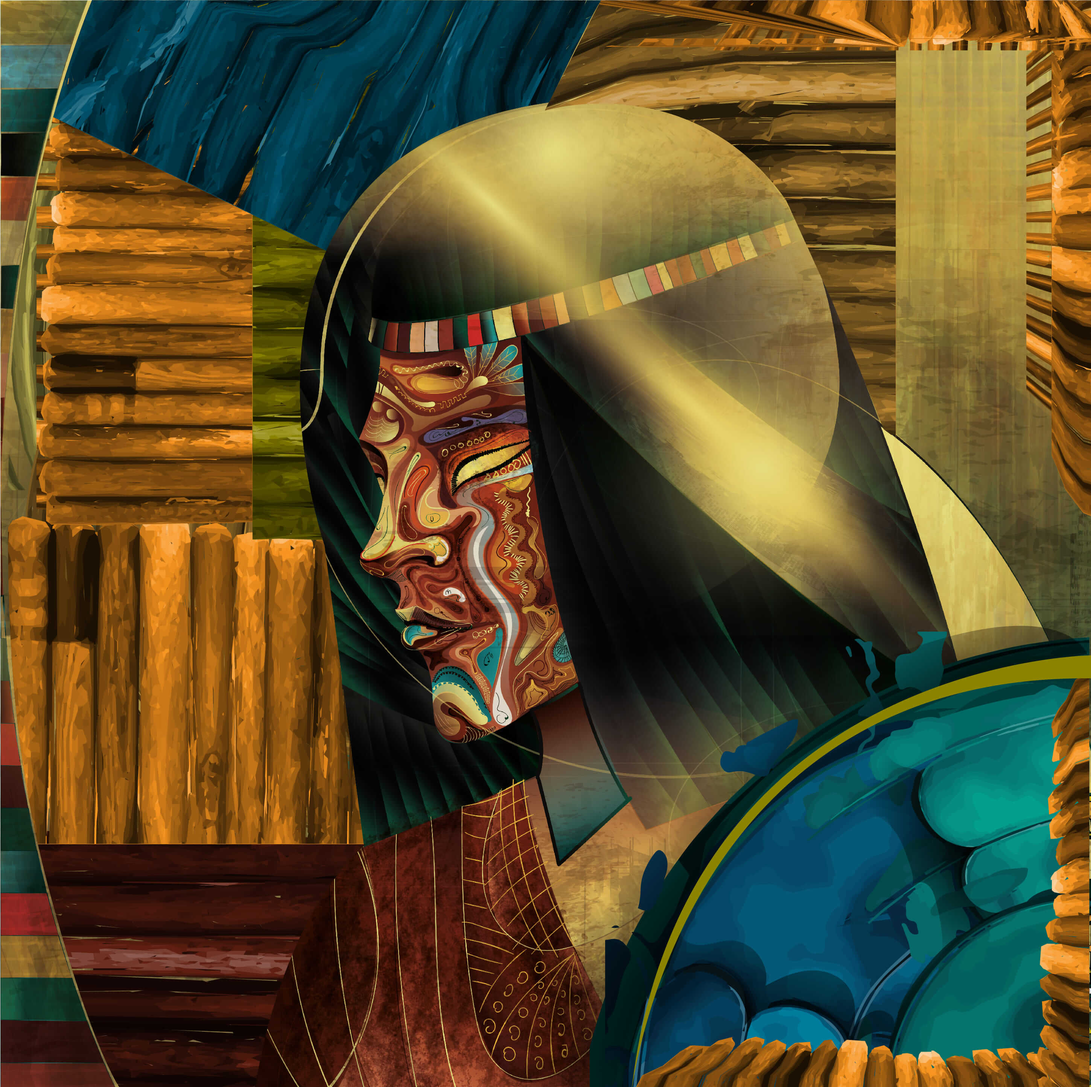
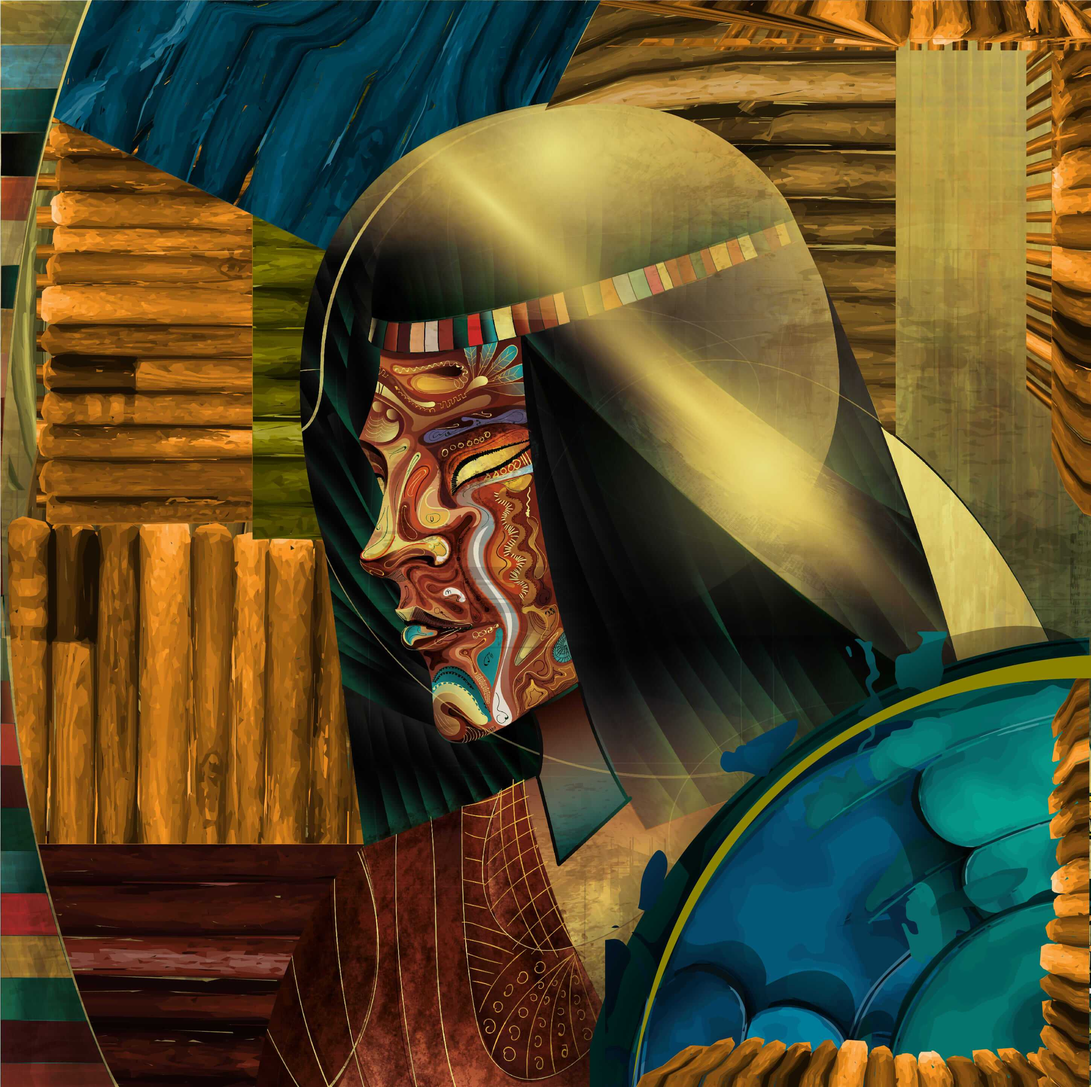
more img optimization

Changed region(s): [[0.4346, 0.3116, 0.4657, 0.3428]]

diff --git a/src/components/ArtGrid.js b/src/components/ArtGrid.js
@@ -29,19 +29,19 @@ export const ArtGrid = (props) => {
             "link": "sd_selam_art"
         },
         {
-            "compressed": require("../assets/compressed/9.png"),
+            "compressed": require("../assets/compressed/9.jpg"),
             "uncompressed": require("../assets/uncompressed/9.png"),
             "artist": "Michael Gebru",
             "link": "michael_gebru7"
         },
         {
-            "compressed": require("../assets/compressed/22.png"),
+            "compressed": require("../assets/compressed/22.jpg"),
             "uncompressed": require("../assets/uncompressed/22.png"),
             "artist": "Yohanan Mengistu",
             "link": "y.ohanan"
         },
         {
-            "compressed": require("../assets/compressed/15.png"),
+            "compressed": require("../assets/compressed/15.jpg"),
             "uncompressed": require("../assets/uncompressed/15.png"),
             "artist": "Estifanos Tewodros",
             "link": "steve.arts_"
@@ -59,14 +59,14 @@ export const ArtGrid = (props) => {
             "link": "nohuyop"
         },
         {
-            "compressed": require("../assets/compressed/5.png"),
+            "compressed": require("../assets/compressed/5.jpg"),
             "uncompressed": require("../assets/uncompressed/5.png"),
             "artist": "Samuel Chalachew",
             "link": "sammy_drawss"
         },
         {
-            "compressed": require("../assets/compressed/23.png"),
-            "uncompressed": require("../assets/compressed/23.png"),
+            "compressed": require("../assets/compressed/23.jpg"),
+            "uncompressed": require("../assets/uncompressed/23.png"),
             "artist": "Tsemru Firemariam",
             "link": "tsemru.f"
         },
@@ -107,7 +107,7 @@ export const ArtGrid = (props) => {
             "link": "abby.comics"
         },
         {
-            "compressed": require("../assets/compressed/12.png"),
+            "compressed": require("../assets/compressed/12.jpg"),
             "uncompressed": require("../assets/uncompressed/12.PNG"),
             "artist": "Maraki Girma",
             "link": "maraki_girma"
@@ -143,7 +143,7 @@ export const ArtGrid = (props) => {
             "link": "tina1creates"
         },
         {
-            "compressed": require("../assets/compressed/18.png"),
+            "compressed": require("../assets/compressed/18.jpg"),
             "uncompressed": require("../assets/uncompressed/18.png"),
             "artist": "Biruk Yohannes",
             "link": "biruk.blend"
